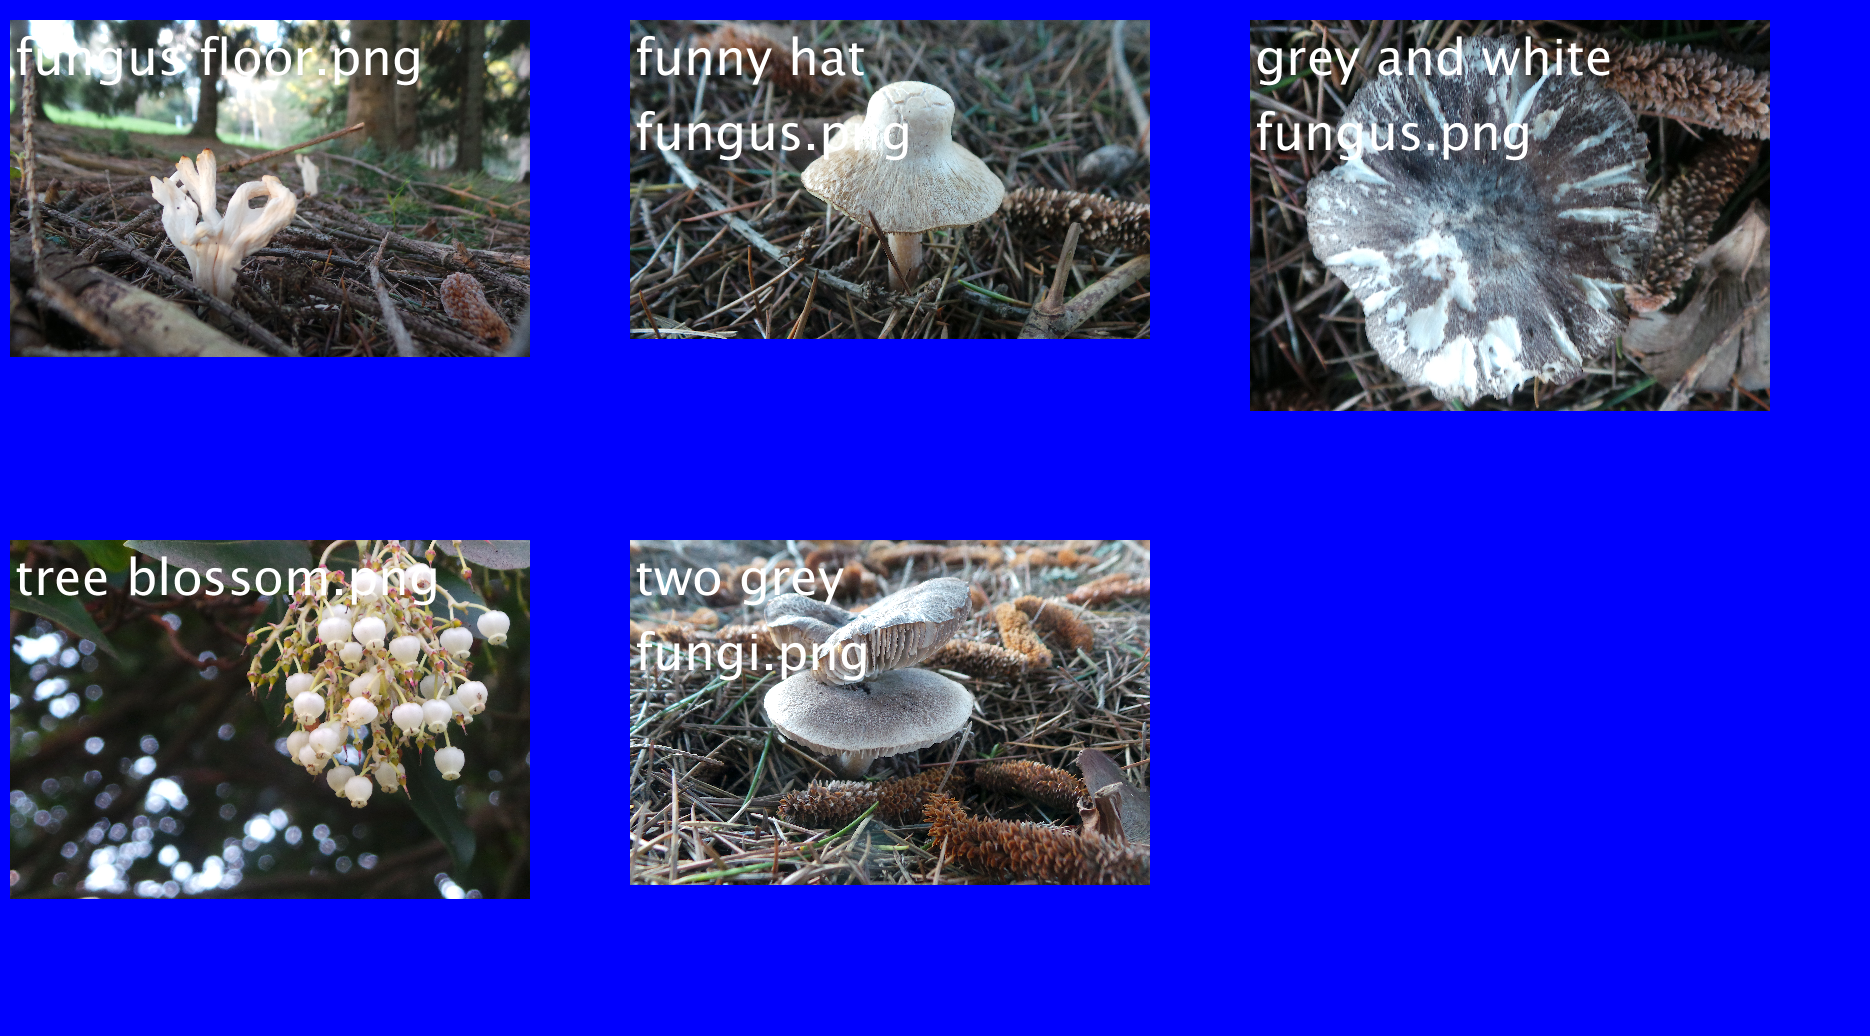
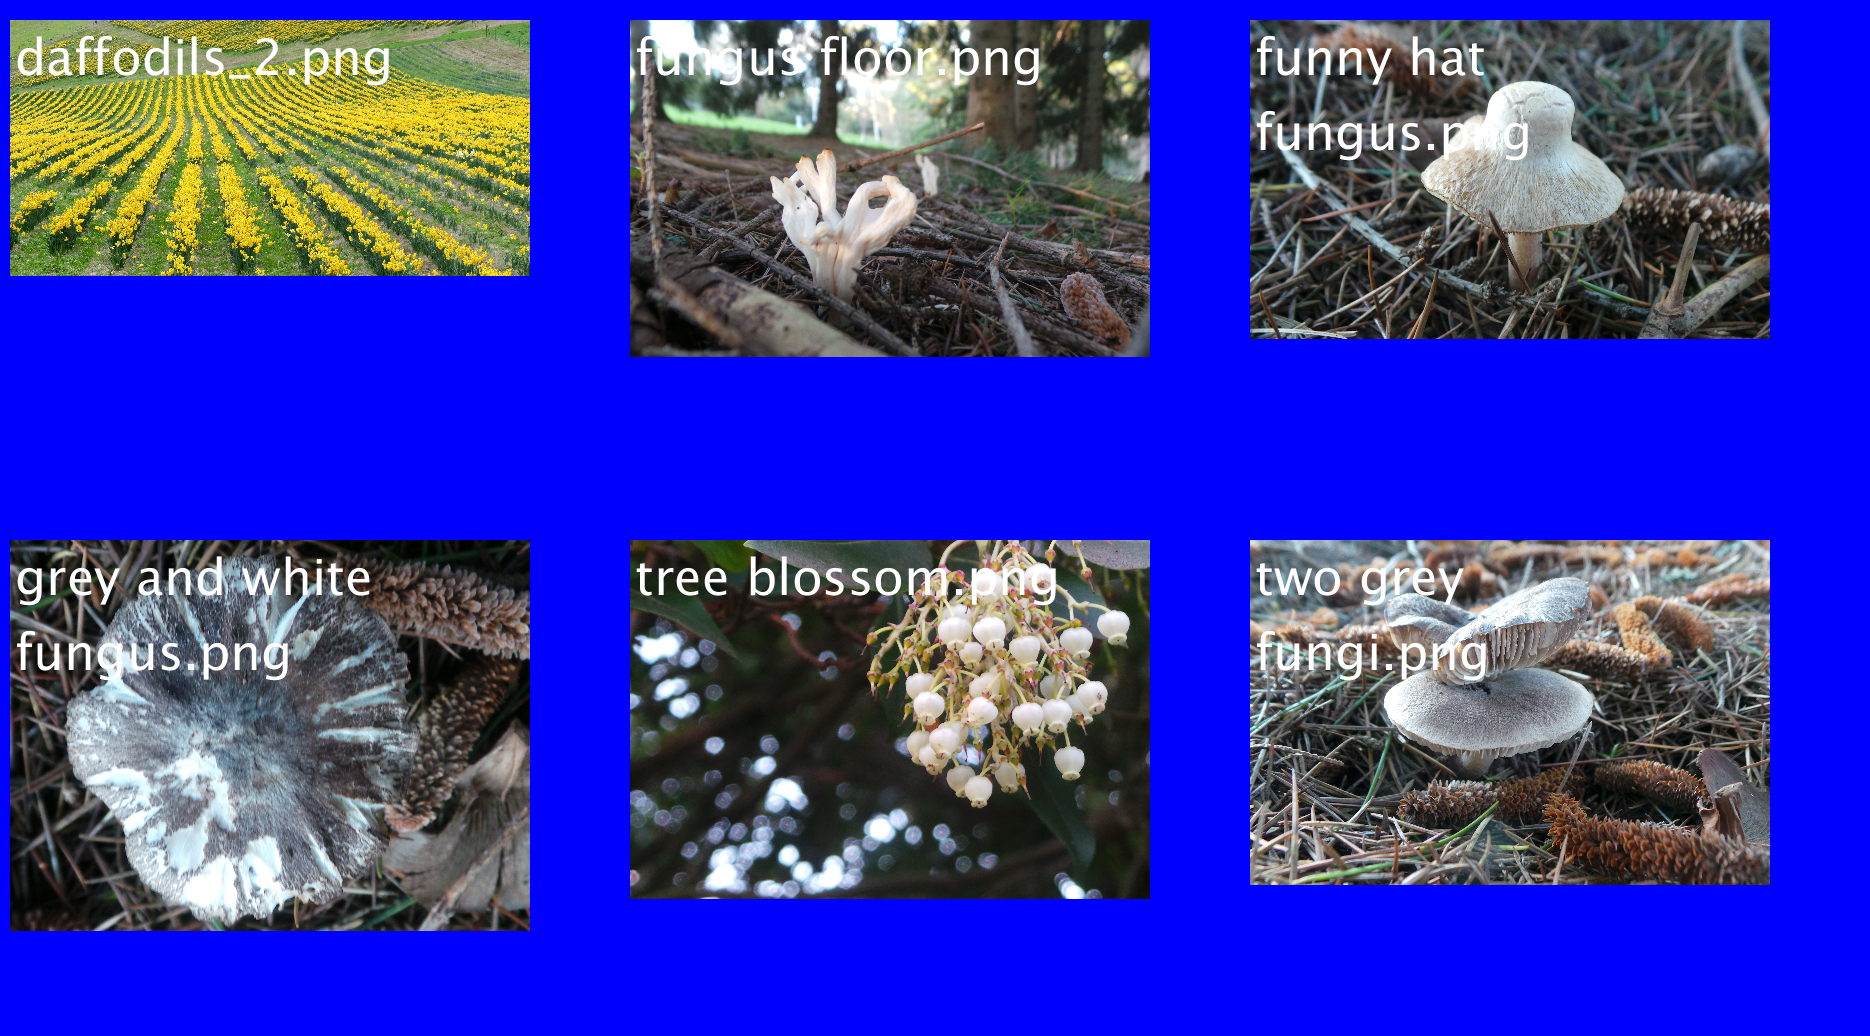
recetns update

diff --git a/piccies/files/recent/index.html b/piccies/files/recent/index.html
@@ -3,10 +3,11 @@
 <meta http-equiv="Content-Type" content="text/html; charset=iso-8859-1"</head><body>
 <img src="recent.png" alt="Shapes not found" usemap="#shapesmap">
 <map name="shapesmap"> 
-<area shape="rect" coords="10,20,620,620" href="files/fungus floor.png" alt="files/fungus floor.png">
-<area shape="rect" coords="630,20,1240,620" href="files/funny hat fungus.png" alt="files/funny hat fungus.png">
-<area shape="rect" coords="1250,20,1860,620" href="files/grey and white fungus.png" alt="files/grey and white fungus.png">
-<area shape="rect" coords="10,540,620,1140" href="files/tree blossom.png" alt="files/tree blossom.png">
-<area shape="rect" coords="630,540,1240,1140" href="files/two grey fungi.png" alt="files/two grey fungi.png">
+<area shape="rect" coords="10,20,620,620" href="files/daffodils_2.png" alt="files/daffodils_2.png">
+<area shape="rect" coords="630,20,1240,620" href="files/fungus floor.png" alt="files/fungus floor.png">
+<area shape="rect" coords="1250,20,1860,620" href="files/funny hat fungus.png" alt="files/funny hat fungus.png">
+<area shape="rect" coords="10,540,620,1140" href="files/grey and white fungus.png" alt="files/grey and white fungus.png">
+<area shape="rect" coords="630,540,1240,1140" href="files/tree blossom.png" alt="files/tree blossom.png">
+<area shape="rect" coords="1250,540,1860,1140" href="files/two grey fungi.png" alt="files/two grey fungi.png">
 
 </map></body></html>
